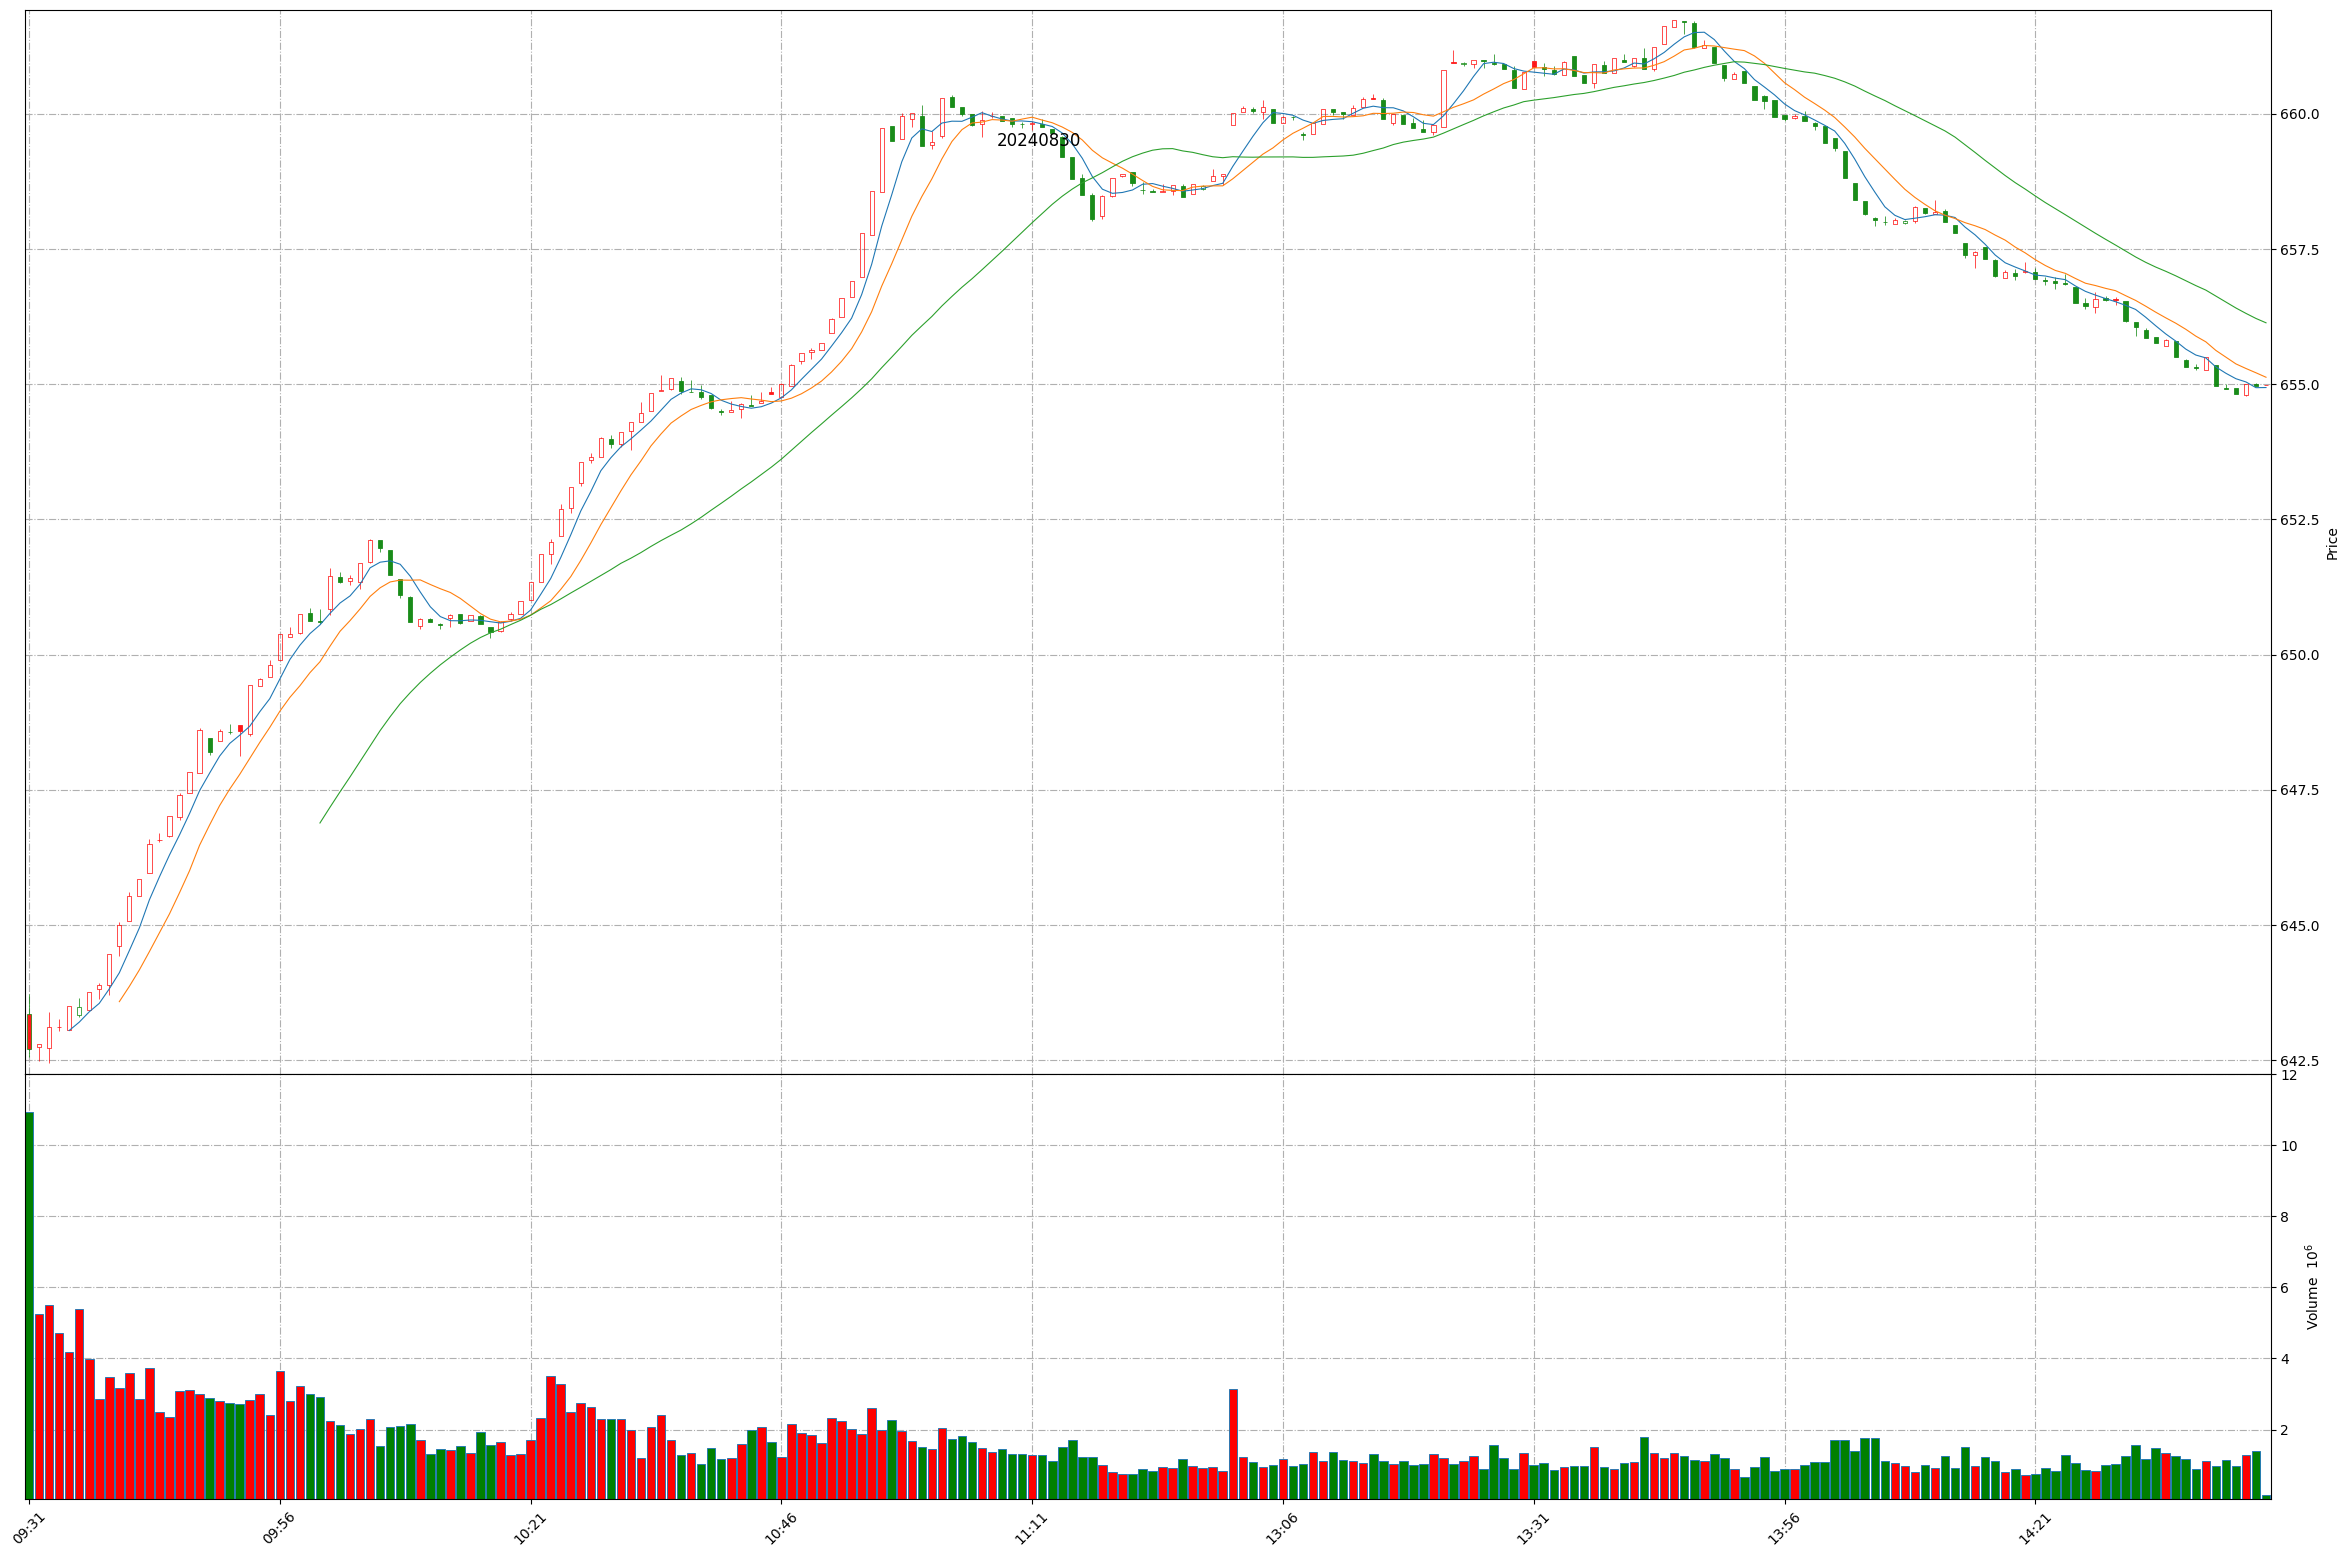
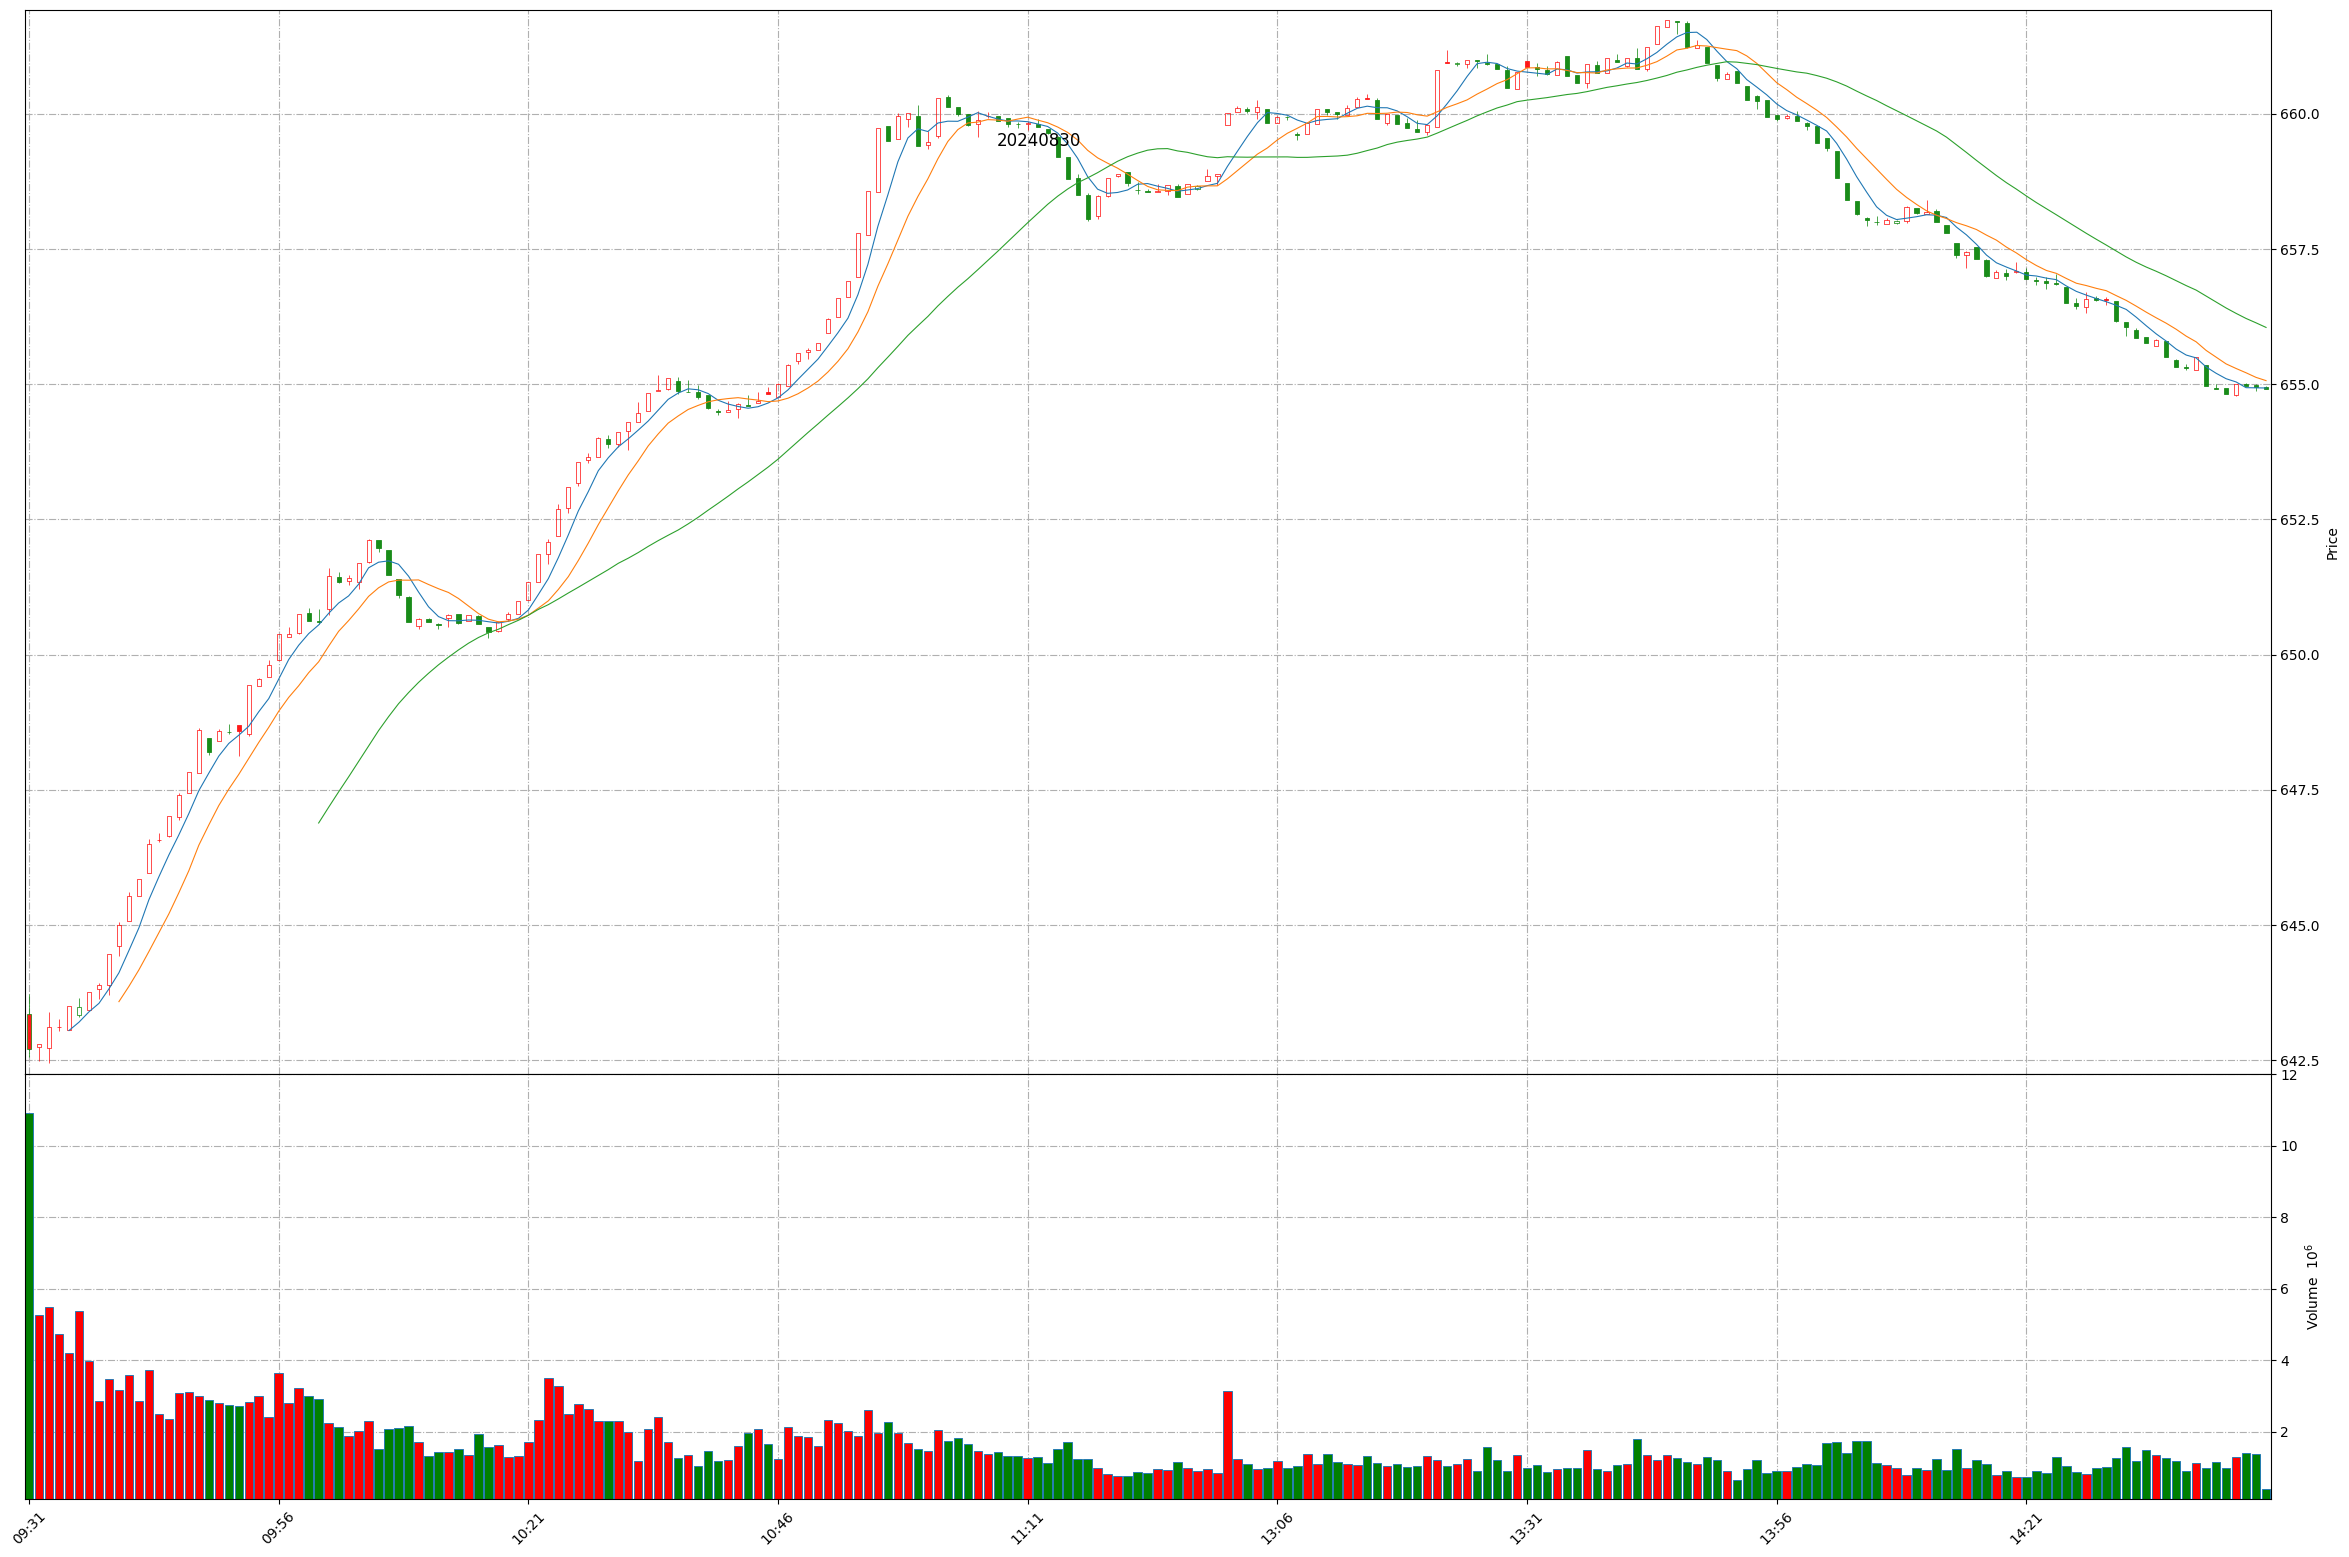
Github action update at 2024-08-30 14:44:26.

diff --git a/README.md b/README.md
@@ -1,11 +1,11 @@
 
 # Daily-A-share-market-quotes 每日 A 股指数（5min 更新）- 20240830
 
-### 上证指数 20240830 14:43
+### 上证指数 20240830 14:44
 ![](./fig/2024/8/20240830-sh000001.png)
 
-### 深证成指 20240830 14:43
+### 深证成指 20240830 14:44
 ![](./fig/2024/8/20240830-sz399001.png)
 
-### 北证50 20240830 14:43
+### 北证50 20240830 14:44
 ![](./fig/2024/8/20240830-bj899050.png)
